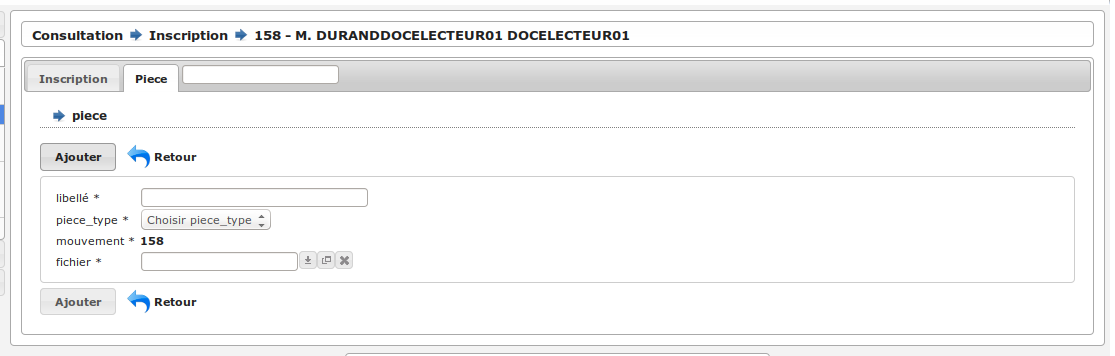
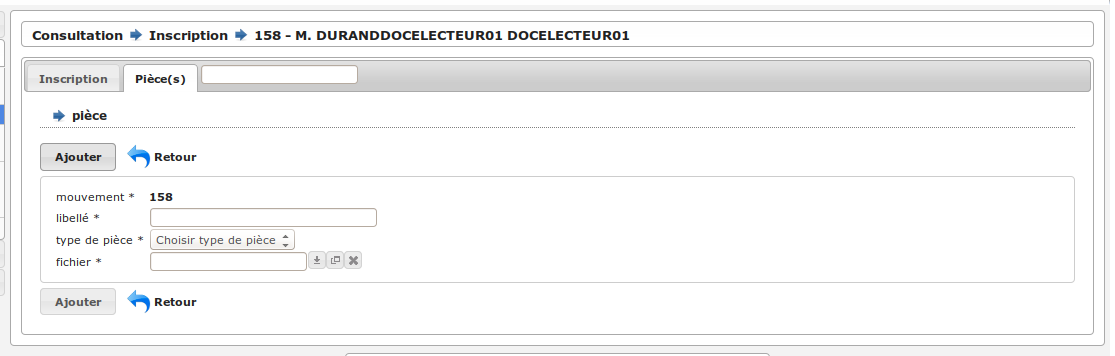
Modification du contenu de la partie onglet pièce et des screenshots.

diff --git a/source/manuel_utilisateur/utilisateur_saisies/inscription.rst b/source/manuel_utilisateur/utilisateur_saisies/inscription.rst
@@ -162,30 +162,30 @@ L'onglet "Piece" n'est diponible que lorsque le mouvement est enregistré. Pour 
 
 
 
-**Saisi de la pièce**
+**Saisie de la pièce**
 
 
 
 .. image:: a_onglet_piece_formulaire.png
 
 
+* Mouvement
+
+	* Affiche l'id du mouvement sur lequel la pièce est lié
+
 * Libellé
 
 	* C'est l'intitulé de la pièce à ajouter.
 
-* Piece_type
+* Type de pièce
 
-	* Le champ piece_type est spécifie le type de pièce associé à la pièce ajoutée. 
-
-* Mouvement
-
-	* Affiche l'id du mouvement sur lequel la pièce est lié
+	* Le champ type de pièce permet de spécifier le type de pièce associé à la pièce ajoutée. 
 
 * Fichier
 
 	* Permet de joindre le fichier.
 
-.. note::
+.. warning::
 
    Attention : lors de l'archivage du mouvement les pièces jointes sont supprimées.
 
